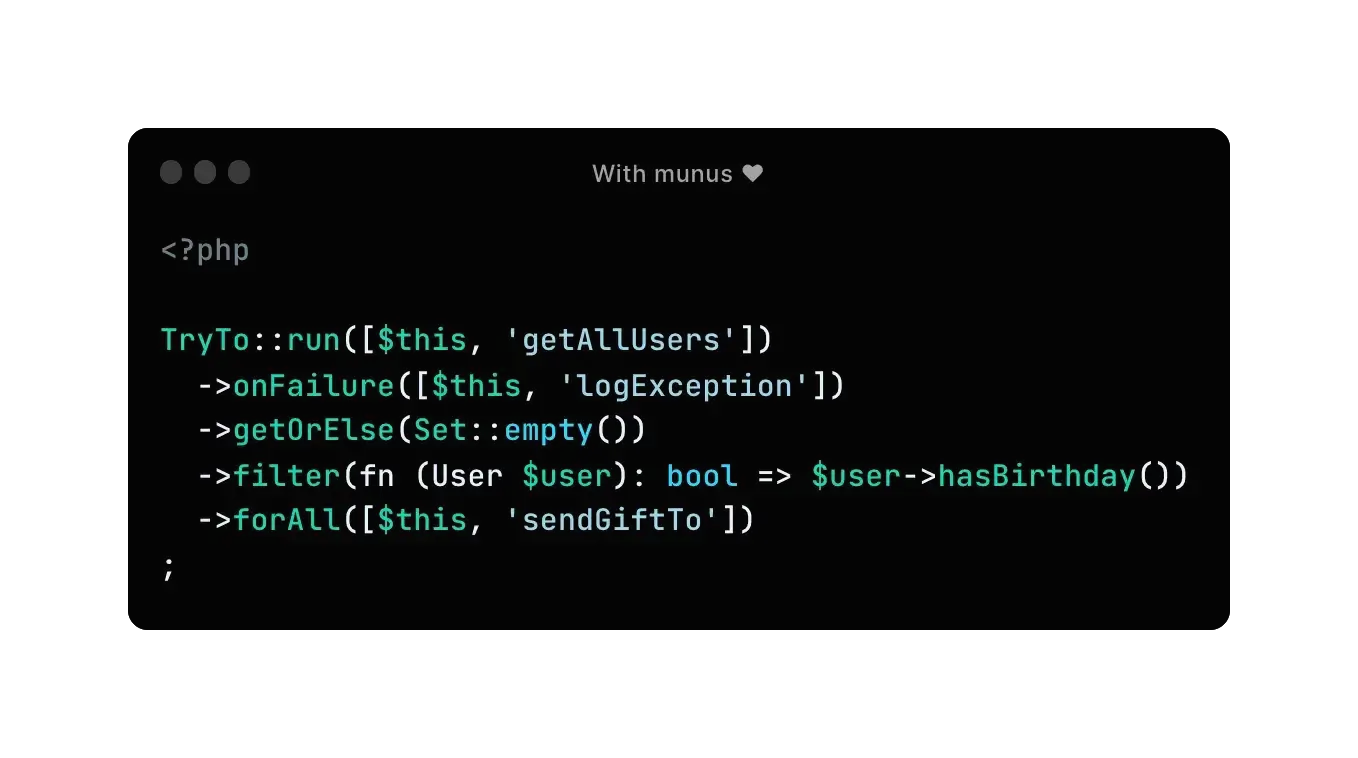
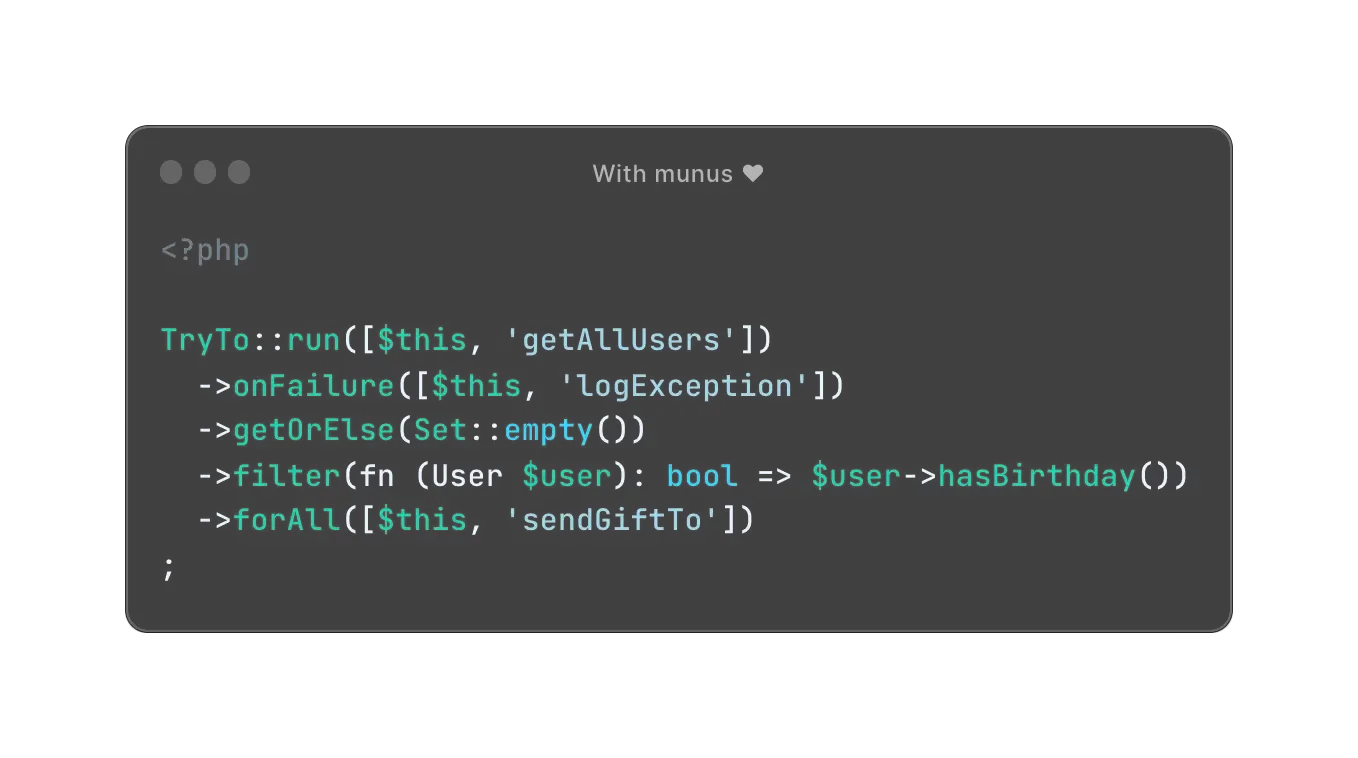
Regenerate homepage media

diff --git a/src/pages/styles.module.css b/src/pages/styles.module.css
@@ -89,12 +89,12 @@
 
 .withMunus {
   max-width: 40rem;
-  filter: drop-shadow(0px 11px 30px #00000090);
+  filter: drop-shadow(0px 14px 30px #00000090);
 }
 
 .withoutMunus {
-  max-width: 32rem;
-  filter: drop-shadow(0px 11px 30px #00000090);
+  max-width: 40rem;
+  filter: drop-shadow(0px 14px 30px #00000090);
 }
 
 .codeExample {
